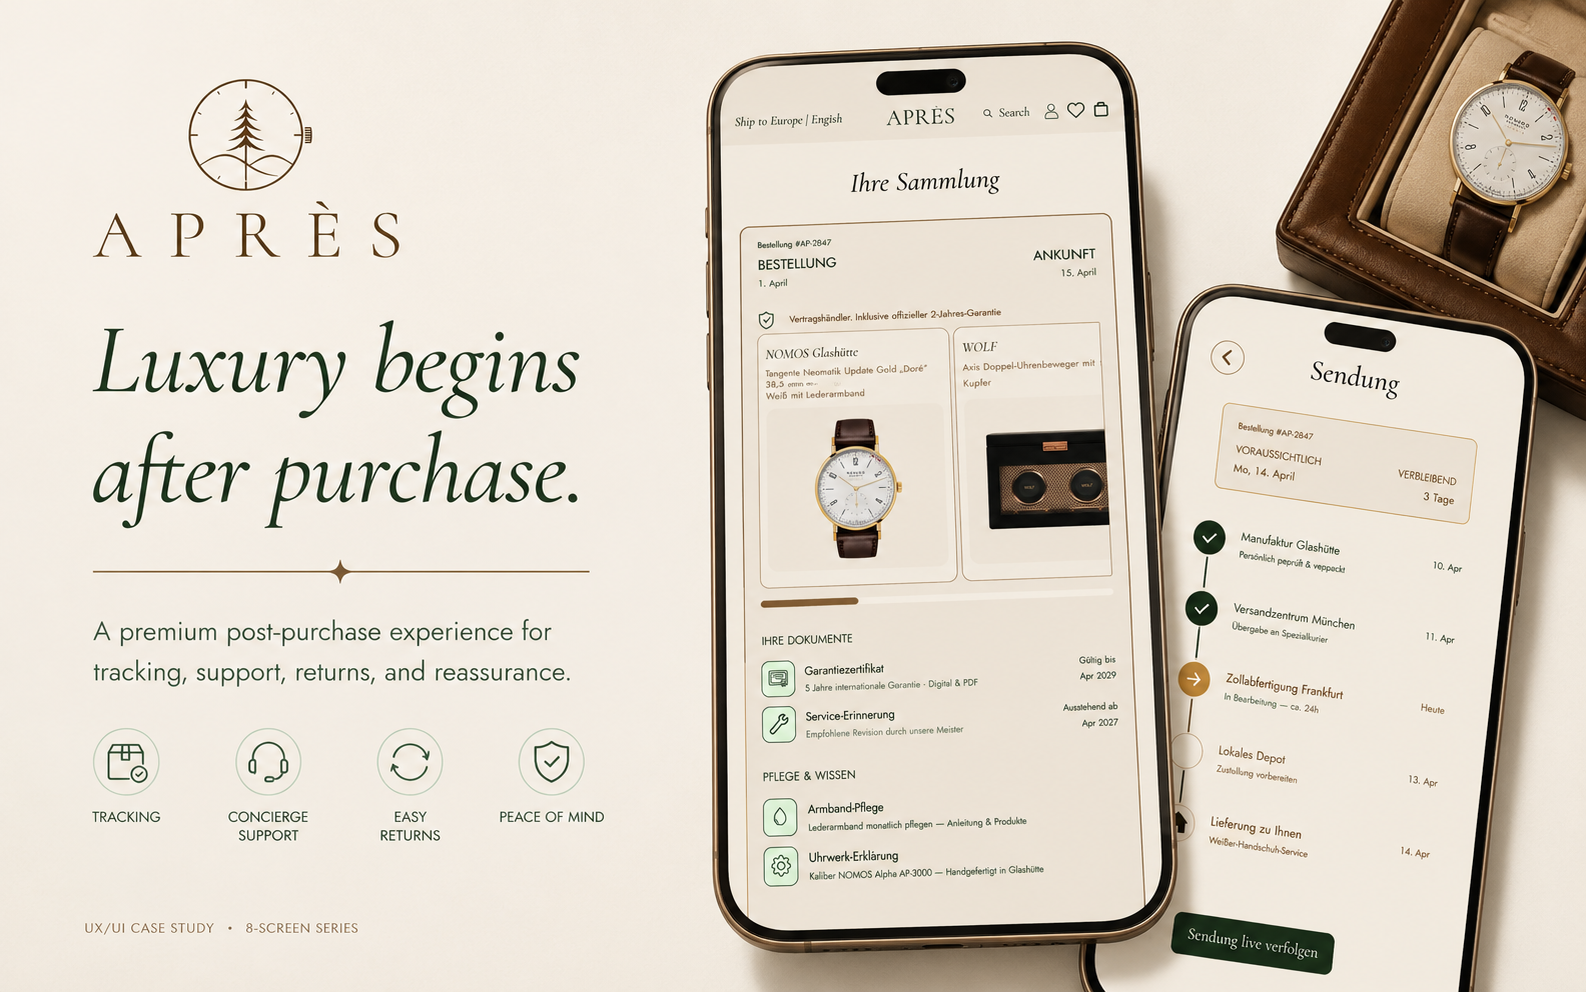
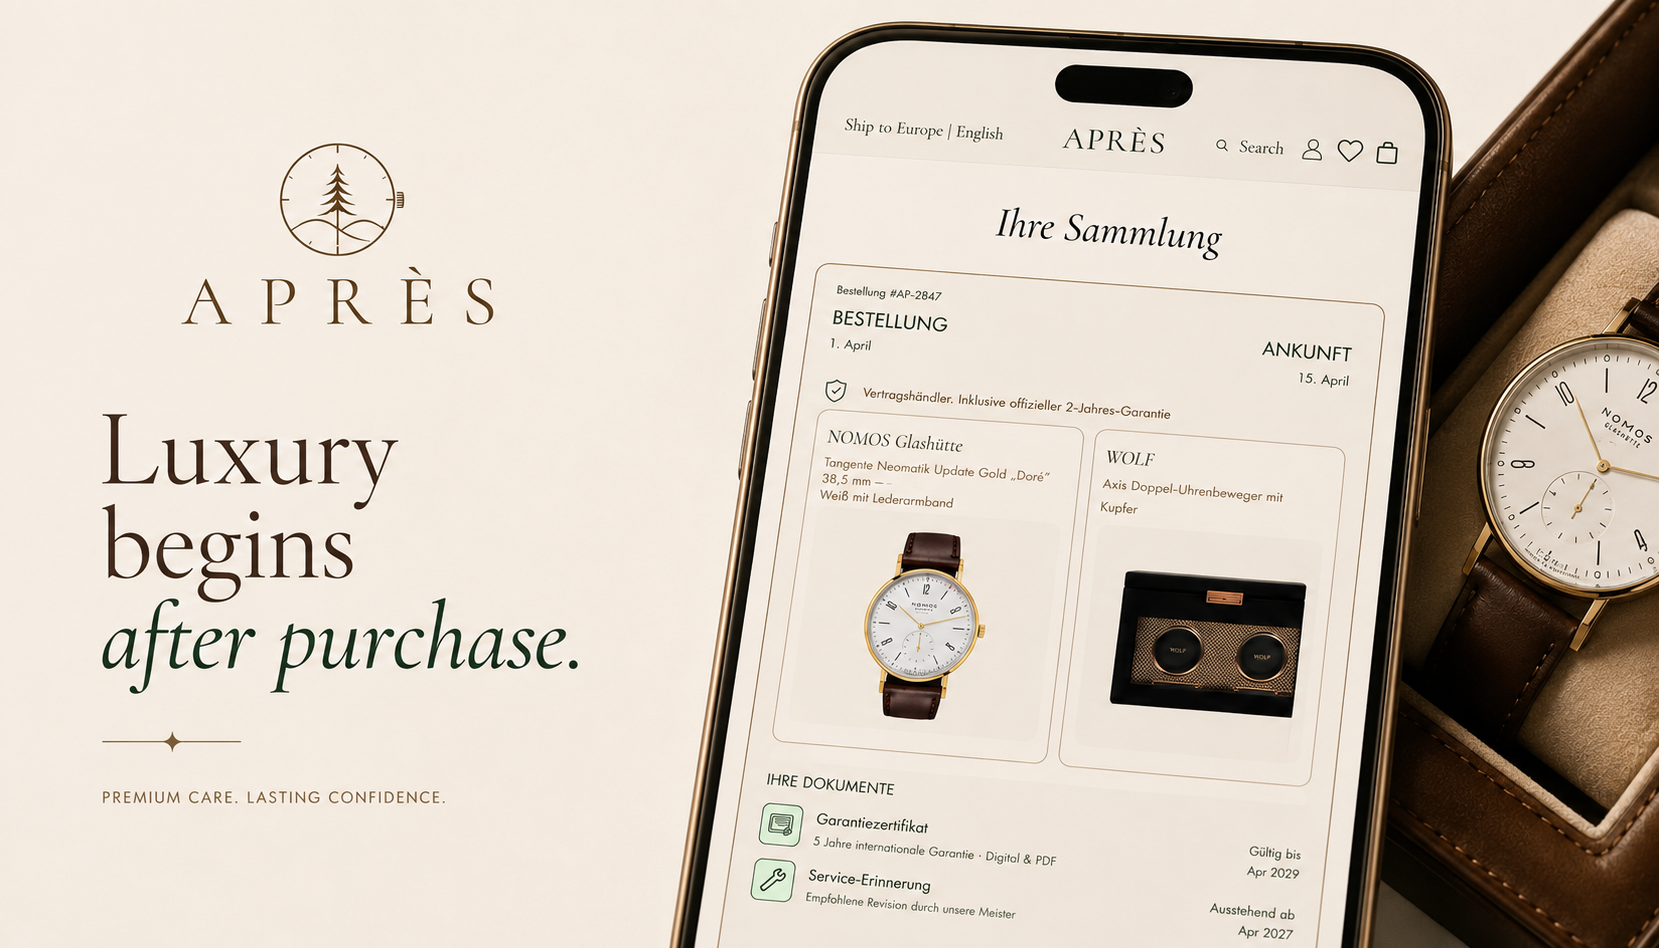
bildvorschau angepasst + neue Hero Statements

diff --git a/style.css b/style.css
@@ -289,9 +289,40 @@ body.darkmode .archive-layout .project-card-media{background:var(--project-card-
 .archive-layout .project-card-category{margin:0;font-family:var(--font-body);font-size:13px;line-height:1.35;font-weight:500;letter-spacing:-.025em;color:var(--archive-text);white-space:normal}
 
 /* ARCHIVE PREVIEW*/
-.case-preview-layer{position:fixed;left:0;top:0;z-index:1200;width:min(310px,28vw);aspect-ratio:16 / 10;pointer-events:none;opacity:0;clip-path:inset(8% 8% 8% 8%);transform:translate3d(-999px,-999px,0);transition:opacity .28s ease,clip-path .52s var(--archive-ease)}
-.case-preview-layer.is-visible{opacity:1;clip-path:inset(0 0 0 0)}
-.case-preview-image{display:block;width:100%;height:100%;object-fit:cover;object-position:center;background:var(--archive-bg);border:0}
+.case-preview-layer{
+  position:fixed;
+  left:0;
+  top:0;
+  z-index:1200;
+  width:max-content;
+  height:max-content;
+  max-width:min(420px,32vw);
+  max-height:min(70vh,560px);
+  pointer-events:none;
+  opacity:0;
+  overflow:hidden;
+  background:transparent;
+  clip-path:inset(8% 8% 8% 8%);
+  transform:translate3d(-999px,-999px,0);
+  transition:opacity .28s ease,clip-path .52s var(--archive-ease);
+}
+
+.case-preview-layer.is-visible{
+  opacity:1;
+  clip-path:inset(0 0 0 0);
+}
+
+.case-preview-image{
+  display:block;
+  width:auto;
+  height:auto;
+  max-width:min(260px,22vw);
+  max-height:min(46vh,360px);
+  object-fit:contain;
+  object-position:center;
+  background:transparent;
+  border:0;
+}
 
 /* ARCHIVE TYPE SWITCH*/
 .archive-type-toggle{display:inline-flex;align-items:center;justify-content:flex-start;gap:8px;min-height:26px}
